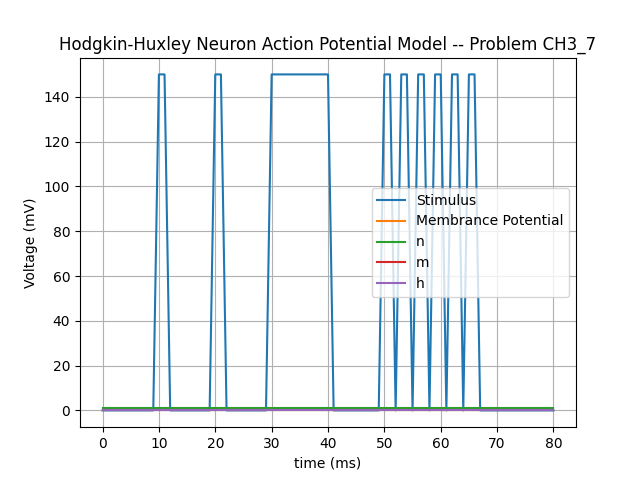
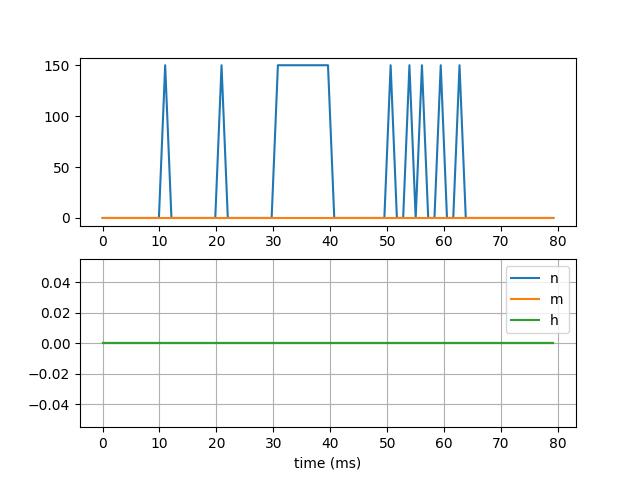
do current equations next.

diff --git a/ch3_objects/ch3_7_hodgkin_huxley.py b/ch3_objects/ch3_7_hodgkin_huxley.py
@@ -4,6 +4,16 @@
 # https://justinmath.com/hodgkin-huxley-model-of-action-potentials-in-neurons/
 
 import matplotlib.pyplot as plt
+from math import exp
+
+# _CONSTS
+_C = 1.0
+_V_Na = 115
+_V_K = -12
+_V_L = 10.6
+_g_Na = 120
+_g_K = 36
+_g_L = 0.3
 
 class EulerEstimatorMultivariable():
     def __init__(self, derivatives):
@@ -45,45 +55,70 @@ def stimulus(t):
 
     return stim
 
+def alpha_n(V):
+    return 0.01 * (10 - V) / (exp(0.1 * (10 - V)) - 1)
+
+def alpha_m(V):
+    return 0.01 * (25 - V) / (exp(0.1 * (25 - V)) - 1)
+
+def alpha_h(V):
+    return 0.07 * exp(-1 * V / 20)
+
+def Beta_n(V):
+    return 0.125 * exp(-1 * V / 80)
+
+def Beta_m(V):
+    return 4 * exp(-1 * V / 18)
+
+def Beta_h(V):
+    return 1 / (exp(0.1 * (30 - V)) + 1)
+
 def dV_dt(t, p):
-    return 0
+    return (1 / _C) * (stimulus(t))
 
 def dn_dt(t, p):
-    return 0
+    return alpha_n(p['V']) * (1 - p['n']) - Beta_n(p['V']) * p['n']
 
 def dm_dt(t, p):
-    return 0
+    return alpha_m(p['V']) * (1 - p['m']) - Beta_m(p['V']) * p['m']
 
 def dh_dt(t, p):
-    return 0
+    return alpha_h(p['V']) * (1 - p['h']) - Beta_h(p['V']) * p['h']
 
-
-p0 = (0, {'V': 0, 'n': 1, 'm': 0, 'h': 0})
-dt = 1
+V_0 = 0
+n_0 = alpha_n(V_0) / (alpha_n(V_0) + Beta_n(V_0)) 
+m_0 = alpha_m(V_0) / (alpha_m(V_0) + Beta_m(V_0))
+h_0 = alpha_h(V_0) / (alpha_h(V_0) + Beta_h(V_0))
+p0 = (0, {'V': V_0, 'n': n_0, 'm': m_0, 'h': h_0})
+dt = 1.1
 n = int((80) / dt) # t ∈ [0, 80 ms]
 derivatives = {'V': dV_dt, 'n': dn_dt, 'm': dm_dt, 'h': dh_dt}
 euler_mv = EulerEstimatorMultivariable(derivatives)
 points = euler_mv.estimate_points(p0, dt, n)
 print(f"{[euler_mv.derivatives[key].__name__ for key in derivatives]}".center(40, '—'))
+print(f"  p0: {p0}")
 # for i in range(len(points)): print(f"p{i:.3g} ({points[0]}, {points[1]})")
 # for p in points: print(p)
 
-plt.figure()
+figure, (plt1, plt2) = plt.subplots(2, 1)
 tss = [p[0] for p in points]
 sss = [stimulus(p[0]) for p in points]
 Vss = [int(p[1]["V"]) for p in points]
 nss = [int(p[1]["n"]) for p in points]
 mss = [int(p[1]["m"]) for p in points]
 hss = [int(p[1]["h"]) for p in points]
-plt.plot(tss, sss, label="Stimulus")
-plt.plot(tss, Vss, label="Membrance Potential")
-plt.plot(tss, nss, label="n")
-plt.plot(tss, mss, label="m")
-plt.plot(tss, hss, label="h")
+plt1.plot(tss, sss, label="Stimulus")
+plt1.plot(tss, Vss, label="Membrance Potential")
+# plt.title("Hodgkin-Huxley Neuron Action Potential Model -- Problem CH3_7")
+# plt.ylabel("Voltage (mV)")
+# plt.legend()
+# plt.grid(True)
 
-plt.title("Hodgkin-Huxley Neuron Action Potential Model -- Problem CH3_7")
+plt2.plot(tss, nss, label="n")
+plt2.plot(tss, mss, label="m")
+plt2.plot(tss, hss, label="h")
+
 plt.xlabel("time (ms)")
-plt.ylabel("Voltage (mV)")
 plt.legend()
 plt.grid(True)
 
